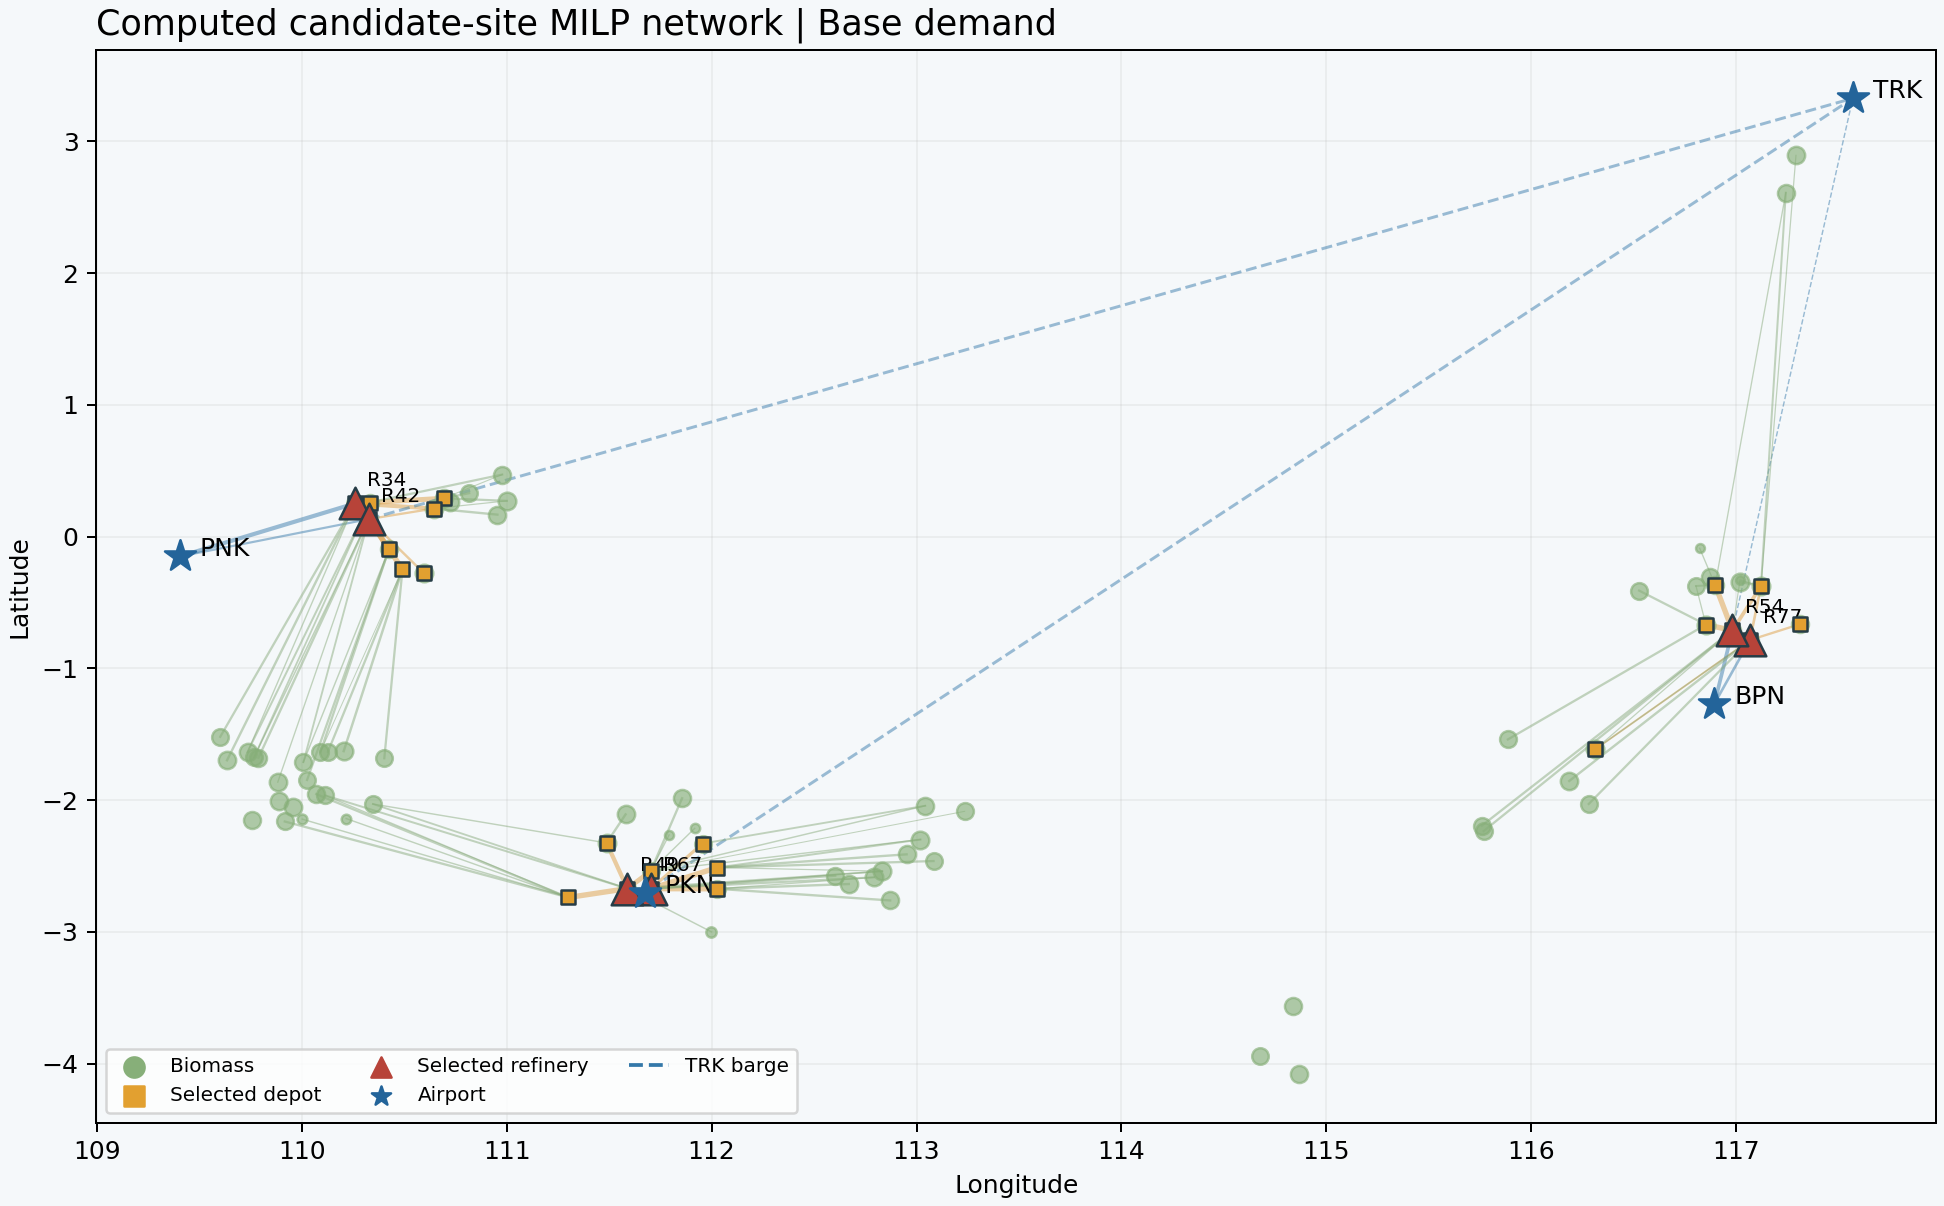
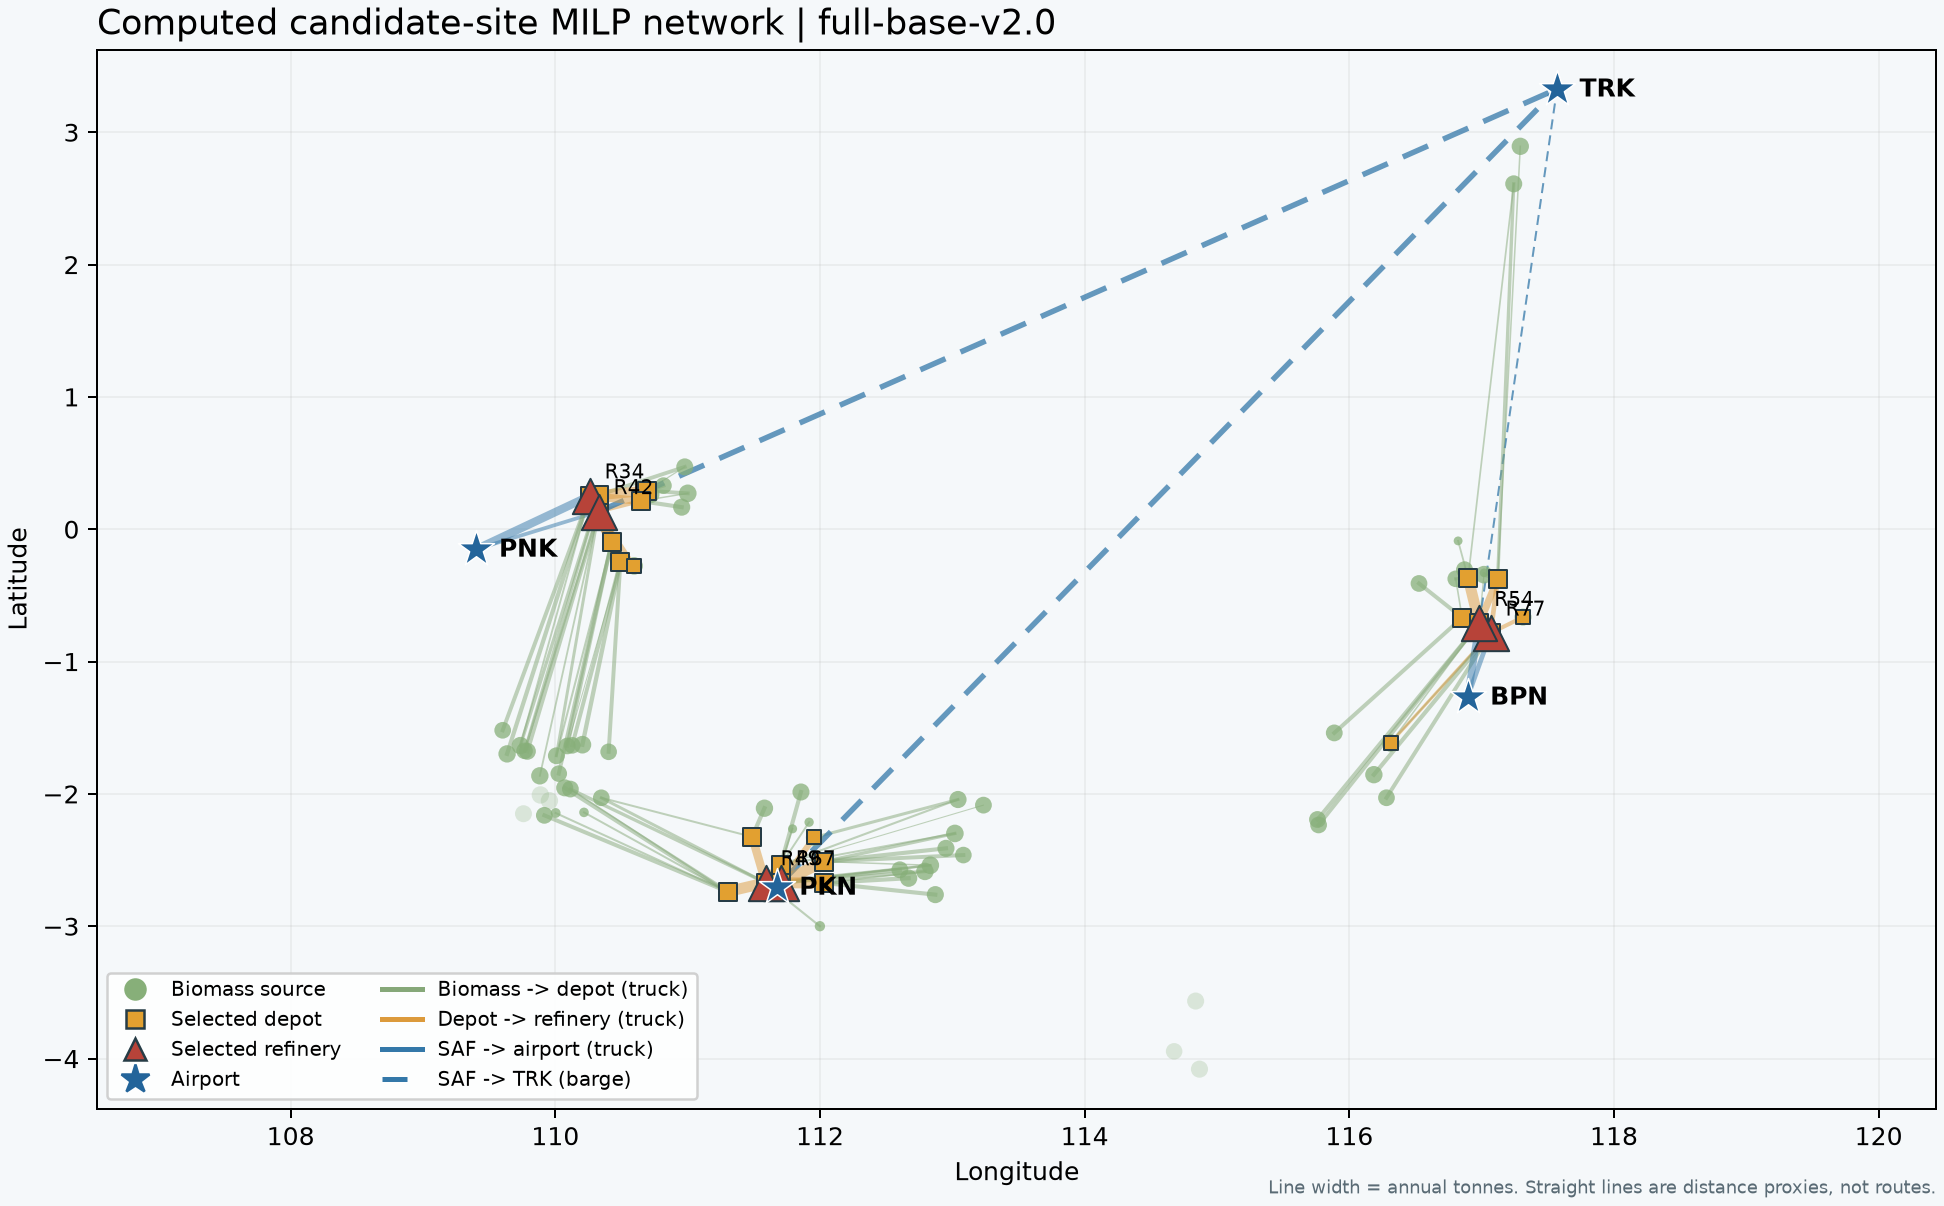
Add computed network map and coordinate export

diff --git a/scripts/render_network.py b/scripts/render_network.py
@@ -1,26 +1,80 @@
-"""Sarah owns map styling. No external basemap or external data."""
-import sys,json,csv
+"""Sarah owns map styling. No external basemap or external data.
+
+Green circles: biomass sources (size = supply; faded if unused). Orange squares: selected depots.
+Red triangles: selected refineries. Blue stars: airports. Line width = annual tonnes on that link.
+Dashed blue: barge (TRK last leg). Straight lines are distance proxies, not surveyed routes.
+
+Usage: python scripts/render_network.py [assumptions_full|assumptions_full_bpn20]
+"""
+import sys,json
 from pathlib import Path
 import matplotlib
 matplotlib.use('Agg')
 import matplotlib.pyplot as plt
+from matplotlib.lines import Line2D
 P=Path(__file__).resolve().parents[1]
-def make_figure(bundle,result):
- fig,ax=plt.subplots(figsize=(10.8,6.7),layout='constrained');fig.patch.set_facecolor('#f5f8fa');ax.set_facecolor('#f5f8fa')
- coords={r.get('source_id',r.get('candidate_id',r.get('airport_id'))):(r['longitude'],r['latitude']) for kind in ['sources','candidates','airports'] for r in bundle[kind]}
- for e in sorted(result['flows'],key=lambda e:e['stage']):
-  a,b=coords[e['from_id']],coords[e['to_id']];color={'source_depot':'#86a879','depot_refinery':'#dc9a3c','refinery_airport':'#3478a9'}[e['stage']]
-  ax.plot([a[0],b[0]],[a[1],b[1]],color=color,alpha=.48,lw=.4+3.5*e['tonnes_per_year']/600000,ls='--' if e.get('mode')=='barge' else '-')
- for s in bundle['sources']:ax.scatter(*coords[s['source_id']],s=s['supply_t_per_year']/2000,color='#87af79',alpha=.65,zorder=3)
- for f in result['facilities']:
-  ref=f['kind']=='refinery';ax.scatter(*coords[f['candidate_id']],s=160 if ref else 35,marker='^' if ref else 's',color='#b74339' if ref else '#e2a030',edgecolor='#263c46',zorder=5)
-  if ref:ax.annotate(f['candidate_id'].replace('R_KAL_SUP_','R'),coords[f['candidate_id']],xytext=(5,7),textcoords='offset points',fontsize=8)
- for a in bundle['airports']:
-  ax.scatter(*coords[a['airport_id']],s=170,marker='*',color='#23649a',zorder=7);ax.annotate(a['airport_id'],coords[a['airport_id']],xytext=(8,0),textcoords='offset points',fontsize=10)
- for marker,col,label in [('o','#87af79','Biomass'),('s','#e2a030','Selected depot'),('^','#b74339','Selected refinery'),('*','#23649a','Airport')]:ax.scatter([],[],s=65,marker=marker,color=col,label=label)
- ax.plot([],[],ls='--',color='#3478a9',label='TRK barge')
- ax.legend(loc='lower left',fontsize=8,ncol=3);ax.set_xlabel('Longitude');ax.set_ylabel('Latitude');ax.grid(alpha=.15);ax.set_title('Computed candidate-site MILP network | Base demand',loc='left',fontsize=14)
- return fig
+BG='#f5f8fa'
+STAGE_COLOR={'source_depot':'#86a879','depot_refinery':'#dc9a3c','refinery_airport':'#3478a9'}
+BIOMASS,DEPOT,REFINERY,AIRPORT='#87af79','#e2a030','#b74339','#23649a'
+
+def coordinates(bundle):
+    """id -> (longitude, latitude) for sources, candidates and airports."""
+    out={}
+    for kind,key in [('sources','source_id'),('candidates','candidate_id'),('airports','airport_id')]:
+        for row in bundle[kind]:out[row[key]]=(row['longitude'],row['latitude'])
+    return out
+
+def short_id(cid):
+    return cid.replace('R_KAL_SUP_','R').replace('D_KAL_SUP_','D')
+
+def make_figure(bundle,result,title='Computed candidate-site MILP network'):
+    fig,ax=plt.subplots(figsize=(10.8,6.7),layout='constrained')
+    fig.patch.set_facecolor(BG);ax.set_facecolor(BG)
+    xy=coordinates(bundle)
+    flows=result['flows']
+    biggest=max([e['tonnes_per_year'] for e in flows],default=1) or 1
+
+    # Flows first so markers sit on top. Width scales with tonnes relative to the largest link.
+    for e in sorted(flows,key=lambda e:e['tonnes_per_year']):
+        (x0,y0),(x1,y1)=xy[e['from_id']],xy[e['to_id']]
+        barge=e.get('mode')=='barge'
+        ax.plot([x0,x1],[y0,y1],color=STAGE_COLOR[e['stage']],alpha=.75 if barge else .5,
+                lw=.4+4*e['tonnes_per_year']/biggest,ls=(0,(5,3)) if barge else '-',zorder=2)
+
+    used={e['from_id'] for e in flows if e['stage']=='source_depot'}
+    for s in bundle['sources']:
+        ax.scatter(*xy[s['source_id']],s=max(s['supply_t_per_year']/2000,12),color=BIOMASS,
+                   alpha=.75 if s['source_id'] in used else .25,edgecolor='none',zorder=3)
+
+    for f in sorted(result['facilities'],key=lambda f:f['kind']):
+        ref=f['kind']=='refinery';large=f['size']=='large'
+        ax.scatter(*xy[f['candidate_id']],marker='^' if ref else 's',color=REFINERY if ref else DEPOT,
+                   s=(200 if large else 120) if ref else (55 if large else 30),edgecolor='#263c46',lw=.8,zorder=5 if ref else 4)
+        if ref:ax.annotate(short_id(f['candidate_id']),xy[f['candidate_id']],xytext=(6,7),textcoords='offset points',fontsize=8,zorder=8)
+
+    for a in bundle['airports']:
+        ax.scatter(*xy[a['airport_id']],s=230,marker='*',color=AIRPORT,edgecolor='white',lw=.6,zorder=7)
+        ax.annotate(a['airport_id'],xy[a['airport_id']],xytext=(9,-3),textcoords='offset points',fontsize=10,fontweight='bold',zorder=8)
+
+    handles=[Line2D([],[],ls='',marker='o',color=BIOMASS,ms=8,label='Biomass source'),
+             Line2D([],[],ls='',marker='s',color=DEPOT,mec='#263c46',ms=7,label='Selected depot'),
+             Line2D([],[],ls='',marker='^',color=REFINERY,mec='#263c46',ms=9,label='Selected refinery'),
+             Line2D([],[],ls='',marker='*',color=AIRPORT,ms=12,label='Airport'),
+             Line2D([],[],color=STAGE_COLOR['source_depot'],lw=2,label='Biomass -> depot (truck)'),
+             Line2D([],[],color=STAGE_COLOR['depot_refinery'],lw=2,label='Depot -> refinery (truck)'),
+             Line2D([],[],color=STAGE_COLOR['refinery_airport'],lw=2,label='SAF -> airport (truck)'),
+             Line2D([],[],color=STAGE_COLOR['refinery_airport'],lw=2,ls=(0,(5,3)),label='SAF -> TRK (barge)')]
+    ax.legend(handles=handles,loc='lower left',fontsize=8,ncol=2,framealpha=.9)
+    ax.set_xlabel('Longitude');ax.set_ylabel('Latitude');ax.set_aspect('equal',adjustable='datalim');ax.grid(alpha=.15)
+    ax.set_title(title,loc='left',fontsize=14)
+    ax.text(1,-.08,'Line width = annual tonnes. Straight lines are distance proxies, not routes.',transform=ax.transAxes,ha='right',fontsize=7,color='#5a6b75')
+    return fig
+
 if __name__=='__main__':
- sys.path.insert(0,str(P));from saf.data import load_bundle
- b,c=load_bundle(str(P/'data/processed'),str(P/'config/assumptions_full.json'));r=json.loads((P/'docs/assumptions_full_milp.json').read_text())['result'];fig=make_figure(b,r);fig.savefig(P/'docs/network_base.png',dpi=180)
+    sys.path.insert(0,str(P));from saf.data import load_bundle
+    name=sys.argv[1] if len(sys.argv)>1 else 'assumptions_full'
+    b,_=load_bundle(str(P/'data/processed'),str(P/'config'/(name+'.json')))
+    r=json.loads((P/'docs'/(name+'_milp.json')).read_text())['result']
+    out=P/'docs'/('network_base.png' if name=='assumptions_full' else 'network_'+name.removeprefix('assumptions_full_')+'.png')
+    make_figure(b,r,'Computed candidate-site MILP network | '+r['scenario_id']).savefig(out,dpi=180)
+    print('wrote',out)

diff --git a/app.py b/app.py
@@ -75,7 +75,7 @@ def _failure_screen(st,response:dict,bundle_supply_t:float|None)->None:
         st.error('**VALIDATION FAILED** - the solver returned a plan but the independent validator rejected it. Do not use these results.')
         if v:
             st.write('Failed checks:')
-            st.dataframe([c for c in v['checks'] if not c['passed']],use_container_width=True)
+            st.dataframe([c for c in v['checks'] if not c['passed']],width='stretch')
             for e in v.get('errors',[]):st.write('-',e)
     if status=='infeasible' and bundle_supply_t is not None:
         sc=response['scenario'];need=sum(sc['demand_t_per_year'].values());cap=bundle_supply_t*sc['refinery_yield']
@@ -148,22 +148,61 @@ def render_dashboard(response: dict, baseline: Result | None) -> None:
 
     with st.expander(f"Evidence: {sum(c['passed'] for c in v['checks'])}/{len(v['checks'])} validator checks passed"):
         st.write(r.get('message',''))
-        st.dataframe(v['checks'],use_container_width=True)
+        st.dataframe(v['checks'],width='stretch')
         st.caption('Candidate-site MILP: optimal over the finite candidate set, not a global land-location optimum.')
 
+    _network_section(st,response,load_bundle_for(scenario))
+
+def facility_rows(bundle:dict,result:Result)->list[dict]:
+    """Selected facilities joined to candidate coordinates by candidate_id, with intake capacity and utilisation."""
+    coords={c['candidate_id']:c for c in bundle['candidates']}
+    rows=[]
+    for f in sorted(result['facilities'],key=lambda f:(f['kind']!='refinery',f['candidate_id'])):
+        c=coords[f['candidate_id']];cap=bundle['facility_options'][f['kind']][f['size']]['capacity_t_per_year']
+        rows.append(dict(candidate_id=f['candidate_id'],kind=f['kind'],size=f['size'],latitude=c['latitude'],longitude=c['longitude'],
+                         intake_t_per_year=round(f['input_t_per_year'],1),output_t_per_year=round(f['output_t_per_year'],1),
+                         intake_capacity_t_per_year=cap,utilisation_pct=round(100*f['input_t_per_year']/cap,1)))
+    return rows
+
+def _csv(rows:list[dict])->str:
+    import csv,io
+    buf=io.StringIO()
+    if rows:
+        w=csv.DictWriter(buf,fieldnames=list(rows[0]));w.writeheader();w.writerows(rows)
+    return buf.getvalue()
+
+def _network_section(st,response:dict,bundle:dict)->None:
     from scripts.render_network import make_figure
     import matplotlib.pyplot as plt
-    bundle=load_bundle_for(scenario)
-    fig=make_figure(bundle,r)
-    fig.axes[0].set_title('Computed candidate-site network | '+scenario['scenario_id'],loc='left')
+    r,sid=response['result'],response['scenario']['scenario_id']
+    st.subheader('Selected network')
+    fig=make_figure(bundle,r,'Computed candidate-site network | '+sid)
     st.pyplot(fig)
     plt.close(fig)
-    coords={c['candidate_id']:c for c in bundle['candidates']}
-    facilities=[f|{k:coords[f['candidate_id']][k] for k in ['latitude','longitude']} for f in r['facilities']]
-    st.dataframe(facilities);st.dataframe(r['flows'])
-    st.download_button('Download facilities with coordinates',json.dumps(facilities,indent=2),'facilities.json')
-    st.caption('TRK last leg: barge, no truck trips. Truck sizes affect trips, not tonne-km costs.')
-    st.download_button('Download result JSON',json.dumps(response,indent=2),'result.json')
+    barge=[e for e in r['flows'] if e['mode']=='barge']
+    trk_trucks=[t for t in r.get('truck_trips') or [] if t['to_id']=='TRK']
+    st.caption(f"TRK last leg: {len(barge)} barge link(s), {sum(e['tonnes_per_year'] for e in barge)/1000:,.1f} kt SAF/yr; "
+               +('no truck trips to TRK.' if not trk_trucks else f'WARNING: {len(trk_trucks)} truck-trip record(s) to TRK.')
+               +' Co-located zero-distance links may be invisible on the map.')
+
+    facilities=facility_rows(bundle,r)
+    depots=[f for f in facilities if f['kind']=='depot'];refs=[f for f in facilities if f['kind']=='refinery']
+    st.subheader(f'Facilities: {len(refs)} refineries, {len(depots)} depots')
+    st.dataframe(facilities,width='stretch',hide_index=True,column_config={
+        'latitude':st.column_config.NumberColumn(format='%.4f'),'longitude':st.column_config.NumberColumn(format='%.4f'),
+        'utilisation_pct':st.column_config.ProgressColumn('utilisation %',min_value=0,max_value=100,format='%.1f%%')})
+    c=st.columns(3)
+    c[0].download_button('Facilities + coordinates (CSV)',_csv(facilities),f'facilities_{sid}.csv','text/csv')
+    c[1].download_button('Facilities + coordinates (JSON)',json.dumps(facilities,indent=2),f'facilities_{sid}.json','application/json')
+    c[2].download_button('Full response (JSON)',json.dumps(response,indent=2),f'response_{sid}.json','application/json')
+
+    with st.expander(f"Material flows ({len(r['flows'])} links)"):
+        st.dataframe(r['flows'],width='stretch',hide_index=True)
+        st.download_button('Flows (CSV)',_csv(r['flows']),f'flows_{sid}.csv','text/csv')
+    with st.expander('Truck-trip equivalents (operational context)'):
+        st.caption('Trips = tonnes / payload, not rounded dispatch counts. Both truck sizes share the same tonne-km cost, '
+                   'so truck size changes trips, not cost. Barge trips are not estimated.')
+        st.dataframe(r.get('truck_trips') or [],width='stretch',hide_index=True)
 
 if __name__=='__main__':
     import streamlit as st
